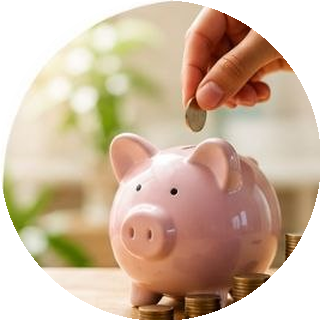
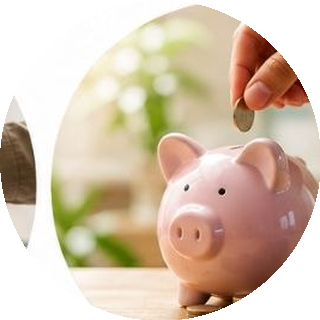
Add files via upload

diff --git a/index.html b/index.html
@@ -991,26 +991,29 @@ footer{background:var(--brun);color:rgba(253,250,247,.8);padding:55px 24px 26px}
   <div style="position:sticky;top:70px;z-index:400;background:rgba(253,250,247,.97);backdrop-filter:blur(10px);border-bottom:1px solid rgba(201,169,110,.25);overflow-x:auto;white-space:nowrap;padding:10px 16px;box-shadow:0 2px 10px rgba(44,24,16,.05)">
     <a href="#exh-bienvenue" style="display:inline-block;margin-right:18px;font-size:12px;font-weight:700;color:var(--brun-m);text-decoration:none">Bienvenue</a>
     <a href="#exh-qui" style="display:inline-block;margin-right:18px;font-size:12px;font-weight:700;color:var(--brun-m);text-decoration:none">Qui je suis</a>
+    <a href="#exh-offre" style="display:inline-block;margin-right:18px;font-size:12px;font-weight:700;color:var(--brun-m);text-decoration:none">Offre du mois</a>
     <a href="#exh-commander" style="display:inline-block;margin-right:18px;font-size:12px;font-weight:700;color:var(--brun-m);text-decoration:none">Comment commander</a>
     <a href="#exh-reserver" style="display:inline-block;margin-right:18px;font-size:12px;font-weight:700;color:var(--brun-m);text-decoration:none">Réserver</a>
     <a href="#exh-marque" style="display:inline-block;margin-right:18px;font-size:12px;font-weight:700;color:var(--brun-m);text-decoration:none">EXHALESSENCE</a>
     <a href="#exh-distributeur" style="display:inline-block;margin-right:18px;font-size:12px;font-weight:700;color:var(--brun-m);text-decoration:none">Devenir distributeur(trice)</a>
     <a href="#exh-avantages" style="display:inline-block;margin-right:18px;font-size:12px;font-weight:700;color:var(--brun-m);text-decoration:none">Avantages</a>
     <a href="#exh-rejoindre" style="display:inline-block;margin-right:18px;font-size:12px;font-weight:700;color:var(--brun-m);text-decoration:none">Nous rejoindre</a>
-    <a href="#" onclick="showContact();return false" style="display:inline-block;font-size:12px;font-weight:700;color:var(--terra);text-decoration:none">✉ Nous contacter</a>
+    <a href="#" onclick="showContact();return false" style="display:inline-block;margin-right:14px;font-size:12px;font-weight:700;color:var(--terra);text-decoration:none">✉ Nous contacter</a>
+    <a href="tel:+33622418463" style="display:inline-block;font-size:12px;font-weight:700;color:var(--terra);text-decoration:none">📞 06 22 41 84 63</a>
   </div>
 
   <!-- BIENVENUE -->
   <section id="exh-bienvenue" style="background:var(--beige);padding:56px 20px">
-    <div style="max-width:1080px;margin:0 auto;display:flex;gap:40px;align-items:center;flex-wrap:wrap-reverse;justify-content:center">
-      <div style="flex:1;min-width:280px;max-width:480px">
-        <div class="hero-badge" style="margin-bottom:14px">✦ Parfums, Beauté & Bien-être</div>
-        <h1 class="hero-t">Bienvenue chez <em>EXHALESSENCE</em></h1>
-        <p class="hero-sub">Conseillère indépendante — parfums de Grasse & gamme beauté</p>
-        <p class="hero-desc">Parfums, soins visage et corps, cheveux, barbe, et parfums d'intérieur — découvrez ma sélection de produits EXHALESSENCE, conçus en France. Vous trouverez ici l'essentiel pour commander, réserver votre moment beauté ou découvrir l'opportunité de rejoindre l'aventure.</p>
-      </div>
+    <div style="max-width:1080px;margin:0 auto;display:flex;gap:40px;align-items:center;flex-wrap:wrap;justify-content:center">
       <div style="flex:0 0 380px;max-width:380px;border-radius:16px;overflow:hidden;box-shadow:0 10px 34px rgba(44,24,16,.18)">
         <img src="exh-categorie.jpg" alt="Gamme de parfums et soins EXHALESSENCE" style="width:100%;display:block" onerror="this.style.display='none'"/>
+      </div>
+      <div style="flex:1;min-width:280px;max-width:480px">
+        <div class="hero-badge" style="margin-bottom:14px;background:rgba(201,169,110,.28);border:1px solid var(--dore);color:var(--brun)">✦ Parfums, Beauté & Bien-être</div>
+        <h1 class="hero-t">Zulay Marques <em>EXHALESSENCE</em></h1>
+        <p class="hero-sub">Conseillère indépendante<br>Parfums de Grasse & Beauté</p>
+        <p class="hero-desc">Soins du visage et du corps, capillaires, barbe, parfums d'intérieur et d'ambiance, compléments alimentaires pour hommes et femmes — découvrez tous les produits EXHALESSENCE, conçus en France, 100% français, non testés sur les animaux, à la naturalité élevée.</p>
+        <p class="hero-desc" style="margin-top:-14px">Vous trouverez ici l'essentiel pour découvrir comment commander, réserver votre moment beauté ou découvrir l'opportunité de rejoindre l'aventure.</p>
       </div>
     </div>
   </section>
@@ -1023,14 +1026,46 @@ footer{background:var(--brun);color:rgba(253,250,247,.8);padding:55px 24px 26px}
         <h2 class="st">Qui je suis ?</h2>
       </div>
       <div style="display:flex;gap:36px;align-items:center;flex-wrap:wrap;justify-content:center">
-        <div style="flex:0 0 260px;max-width:260px;border-radius:16px;overflow:hidden;box-shadow:0 8px 26px rgba(44,24,16,.15)">
-          <img src="exh-qui-je-suis.jpg" alt="Zulay Marques, conseillère EXHALESSENCE" style="width:100%;display:block" onerror="this.style.display='none'"/>
-        </div>
-        <div style="flex:1;min-width:260px;max-width:520px">
+        <div style="flex:1;min-width:260px;max-width:520px;order:1">
           <div style="display:inline-block;background:rgba(201,169,110,.15);border:1px solid var(--dore);color:var(--brun-m);padding:6px 16px;border-radius:20px;font-size:12px;font-weight:700;margin-bottom:16px">Conseillère EXHALESSENCE depuis 5 ans</div>
           <p style="color:var(--gris);line-height:1.9;font-size:15px">Séduite par la qualité des produits EXHALESSENCE, j'ai rejoint l'aventure en octobre 2020. D'abord en parallèle de mon emploi, j'y ai découvert une véritable passion. Depuis, cette activité a transformé ma vie personnelle et professionnelle.</p>
           <p style="color:var(--gris);line-height:1.9;font-size:15px;margin-top:14px">En 2023, j'ai choisi de m'y consacrer à temps plein, avec un épanouissement total. Aujourd'hui, je vis une liberté professionnelle précieuse, en harmonie avec ma vie de famille. Rejoindre EXHALESSENCE a été l'une des meilleures décisions de ma vie.</p>
         </div>
+        <div style="flex:0 0 260px;max-width:260px;border-radius:16px;overflow:hidden;box-shadow:0 8px 26px rgba(44,24,16,.15);order:2">
+          <img src="exh-qui-je-suis.jpg" alt="Zulay Marques, conseillère EXHALESSENCE" style="width:100%;display:block" onerror="this.style.display='none'"/>
+        </div>
+      </div>
+    </div>
+  </section>
+
+  <!-- OFFRE DU MOIS -->
+  <section id="exh-offre" style="background:white;padding:50px 20px">
+    <div class="si" style="max-width:920px">
+      <div class="sh">
+        <div class="ey">✦ En ce moment</div>
+        <h2 class="st">Offre du mois</h2>
+        <p class="sdesc">Deux offres valables du 1<sup>er</sup> au 30 septembre 2026.</p>
+      </div>
+      <div style="display:flex;gap:22px;justify-content:center;flex-wrap:wrap;max-width:840px;margin:0 auto">
+
+        <div style="background:#FDF6F0;border-radius:var(--r);overflow:hidden;box-shadow:var(--sh);max-width:320px;text-align:center">
+          <img src="exh-offre-parfum-septembre.jpg" alt="Parfum du mois Cœur de Miel" style="width:100%;display:block" onerror="this.style.display='none'"/>
+          <div style="padding:18px">
+            <div class="vt" style="margin-bottom:6px">Parfum du mois — Cœur de Miel</div>
+            <p style="color:var(--gris);font-size:13px;line-height:1.7;margin-bottom:10px">Réf. 172 — Famille Chyprée Florale. Une gourmandise florale entre miel, gardénia et fleur d'oranger, sur un fond de caramel et de patchouli.</p>
+            <p style="color:var(--brun);font-size:13px;font-weight:700">Parfum 75ml : 25€ <span style="color:var(--gris);font-weight:400;text-decoration:line-through">32€</span><br>Recharge 125ml : 25€ <span style="color:var(--gris);font-weight:400;text-decoration:line-through">30€</span></p>
+          </div>
+        </div>
+
+        <div style="background:#FDF6F0;border-radius:var(--r);overflow:hidden;box-shadow:var(--sh);max-width:320px;text-align:center">
+          <img src="exh-offre-nutri-septembre.jpg" alt="Pack Nutri+ Détox Minceur Probiotique" style="width:100%;display:block" onerror="this.style.display='none'"/>
+          <div style="padding:18px">
+            <div class="vt" style="margin-bottom:6px">Pack Nutri+ — Détox, Minceur & Probiotique</div>
+            <p style="color:var(--gris);font-size:13px;line-height:1.7;margin-bottom:10px">Une cure de 55 jours : 1 flacon Détox, 3 flacons Draineurs, 3 flacons Brûleurs de graisse et 1 flacon Probiotique.</p>
+            <p style="color:var(--brun);font-size:13px;font-weight:700">199€ <span style="color:var(--gris);font-weight:400;text-decoration:line-through">279€</span> — soit 80€ de réduction</p>
+          </div>
+        </div>
+
       </div>
     </div>
   </section>
@@ -1054,7 +1089,7 @@ footer{background:var(--brun);color:rgba(253,250,247,.8);padding:55px 24px 26px}
             <div style="border-radius:12px;overflow:hidden;box-shadow:0 6px 20px rgba(44,24,16,.14);margin-bottom:10px">
               <img src="exh-liste-parfums-couverture.jpg" alt="Liste des parfums Exhalessence" style="width:100%;display:block" onerror="this.style.display='none'"/>
             </div>
-            <a href="catalogue-parfums-exhalessence.html" target="_blank" rel="noopener" class="btn-s" style="text-decoration:none;font-size:11px;padding:9px 14px;width:100%;justify-content:center">🌸 Liste des parfums</a>
+            <a href="catalogue-parfums-exhalessence.html" target="_blank" rel="noopener" class="btn-p" style="text-decoration:none;font-size:11px;padding:9px 14px;width:100%;justify-content:center">🌸 Liste des parfums</a>
           </div>
         </div>
         <div style="flex:1;min-width:260px;max-width:420px">
@@ -1124,8 +1159,10 @@ footer{background:var(--brun);color:rgba(253,250,247,.8);padding:55px 24px 26px}
         <button onclick="toggleExhForm()" class="btn-p" style="font-size:15px;padding:14px 34px">Réserver</button>
       </div>
 
-      <!-- FORMULAIRE DE RÉSERVATION (masqué par défaut) -->
-      <div id="exh-form-wrap" style="display:none;max-width:560px;margin:30px auto 0;background:white;border-radius:var(--r);padding:30px 26px;box-shadow:var(--sh-lg)">
+      <!-- FORMULAIRE DE RÉSERVATION (fenêtre modale) -->
+      <div id="exh-form-overlay" style="display:none;position:fixed;inset:0;background:rgba(44,24,16,.6);backdrop-filter:blur(4px);z-index:5000;align-items:center;justify-content:center;padding:20px" onclick="if(event.target===this)toggleExhForm()">
+      <div id="exh-form-wrap" style="max-width:560px;width:100%;max-height:88vh;overflow-y:auto;background:white;border-radius:var(--r);padding:30px 26px;box-shadow:var(--sh-lg);position:relative">
+        <button onclick="toggleExhForm()" aria-label="Fermer" style="position:absolute;top:14px;right:14px;width:32px;height:32px;border-radius:50%;border:none;background:rgba(201,169,110,.15);color:var(--brun);font-size:16px;cursor:pointer;display:flex;align-items:center;justify-content:center">✕</button>
         <h3 style="font-family:'Playfair Display',serif;font-size:19px;color:var(--brun);margin-bottom:6px;text-align:center">Réserver votre moment</h3>
         <p style="color:var(--gris);font-size:12px;text-align:center;margin-bottom:20px">La date choisie est indicative — je vous recontacte pour la confirmer.</p>
 
@@ -1153,6 +1190,7 @@ footer{background:var(--brun);color:rgba(253,250,247,.8);padding:55px 24px 26px}
           <p id="exh-form-msg" style="font-size:12px;text-align:center;display:none;margin-top:2px"></p>
         </div>
       </div>
+      </div>
     </div>
   </section>
 
@@ -1164,8 +1202,11 @@ footer{background:var(--brun);color:rgba(253,250,247,.8);padding:55px 24px 26px}
         <h2 class="st">EXHALESSENCE</h2>
       </div>
       <div style="display:flex;gap:36px;align-items:center;flex-wrap:wrap;justify-content:center">
-        <div style="flex:0 0 300px;max-width:300px;border-radius:16px;overflow:hidden;box-shadow:0 8px 26px rgba(44,24,16,.15)">
-          <img src="exh-siege.jpg" alt="Siège de la société EXHALESSENCE" style="width:100%;display:block" onerror="this.style.display='none'"/>
+        <div style="flex:0 0 400px;max-width:400px">
+          <div style="border-radius:16px;overflow:hidden;box-shadow:0 8px 26px rgba(44,24,16,.15)">
+            <img src="exh-siege.jpg" alt="Siège de la société EXHALESSENCE" style="width:100%;display:block" onerror="this.style.display='none'"/>
+          </div>
+          <p style="text-align:center;margin-top:10px;color:var(--brun-m);font-size:13px;font-weight:700">Siège EXHALESSENCE<br><span style="font-weight:400;color:var(--gris)">Meung-sur-Loire (45)</span></p>
         </div>
         <div style="flex:1;min-width:260px;max-width:480px;color:var(--gris);line-height:1.9;font-size:14px">
           <p style="margin-bottom:12px">Joël SAUVAGEOT, Président entouré de ses collaborateurs, a créé la société EXHALESSENCE en juin 2016. Exhalessence, une société Française, située à Meung-sur-Loire (45).</p>
@@ -1187,7 +1228,7 @@ footer{background:var(--brun);color:rgba(253,250,247,.8);padding:55px 24px 26px}
       <div class="sh">
         <div class="ey">✦ L'opportunité</div>
         <h2 class="st">Devenir distributeur(trice)</h2>
-        <p class="sdesc">Vous aimez les produits EXHALESSENCE et vous souhaitez, vous aussi, vivre cette belle aventure et développer votre propre activité à votre rythme ? Découvrez tout ce qu'il faut savoir en vidéo.</p>
+        <p class="sdesc">Vous aimez les produits EXHALESSENCE et souhaitez découvrir aussi cette belle aventure et développer votre propre activité à votre rythme ?<br>Découvrez tout ce qu'il faut savoir en vidéo.</p>
       </div>
       <div style="position:relative;width:100%;padding-top:56.25%;border-radius:var(--r);overflow:hidden;box-shadow:var(--sh-lg);background:#000">
         <iframe
@@ -7385,11 +7426,11 @@ async function inscrireNewsletter(){
 }
 
 function toggleExhForm(){
-  const el = document.getElementById('exh-form-wrap');
-  if(!el) return;
-  const show = el.style.display === 'none' || !el.style.display;
-  el.style.display = show ? 'block' : 'none';
-  if(show) el.scrollIntoView({behavior:'smooth', block:'start'});
+  const overlay = document.getElementById('exh-form-overlay');
+  if(!overlay) return;
+  const show = overlay.style.display === 'none' || !overlay.style.display;
+  overlay.style.display = show ? 'flex' : 'none';
+  document.body.style.overflow = show ? 'hidden' : '';
 }
 
 async function reserverExhalessence(){

diff --git a/catalogue-parfums-exhalessence.html b/catalogue-parfums-exhalessence.html
@@ -16,10 +16,10 @@
     height:100%;
     background:radial-gradient(ellipse at center, #2b2118 0%, #14100c 100%);
     font-family:'Georgia', 'Times New Roman', serif;
-    overflow:hidden;
+    overflow:auto;
   }
   .catalogue-wrap{
-    height:100%;
+    min-height:100%;
     width:100%;
     display:flex;
     flex-direction:column;
@@ -29,10 +29,8 @@
   }
   .book-stage{
     position:relative;
-    width:100%;
-    max-width:1100px;
-    aspect-ratio:1492/1054;
     perspective:2800px;
+    margin:0 auto;
   }
   .page{
     position:absolute;
@@ -70,9 +68,10 @@
   .page:not(.stacked){ z-index:5; }
 
   .book-shadow{
-    position:absolute;
-    bottom:-18px;left:5%;right:5%;
+    width:100%;
+    max-width:1100px;
     height:30px;
+    margin-top:-10px;
     background:radial-gradient(ellipse, rgba(0,0,0,0.55) 0%, transparent 75%);
     filter:blur(4px);
   }
@@ -81,7 +80,7 @@
     display:flex;
     align-items:center;
     gap:28px;
-    margin-top:26px;
+    margin-top:22px;
   }
   .nav-btn{
     background:transparent;
@@ -116,21 +115,33 @@
     text-align:center;
   }
 
-  .edge-click{
+  .edge-arrow{
     position:absolute;
-    top:0;
-    width:15%;
-    height:100%;
-    z-index:10;
+    top:50%;
+    transform:translateY(-50%);
+    z-index:20;
+    width:44px;height:44px;
+    border-radius:50%;
+    background:rgba(20,16,12,0.55);
+    border:1px solid var(--gold);
+    color:var(--gold-light);
+    display:flex;align-items:center;justify-content:center;
+    font-size:18px;
     cursor:pointer;
+    transition:all 0.2s ease;
+    user-select:none;
   }
-  .edge-left{ left:0; }
-  .edge-right{ right:0; }
+  .edge-arrow:hover{ background:var(--gold); color:var(--dark); }
+  .edge-arrow.hidden{ display:none; }
+  .edge-arrow-left{ left:-22px; }
+  .edge-arrow-right{ right:-22px; }
 
   @media (max-width:640px){
-    .book-stage{ max-width:94vw; }
     .controls{ gap:18px; }
     .nav-btn{ width:40px;height:40px;font-size:15px; }
+    .edge-arrow{ width:36px;height:36px;font-size:15px; }
+    .edge-arrow-left{ left:-8px; }
+    .edge-arrow-right{ right:-8px; }
   }
 </style>
 </head>
@@ -138,8 +149,8 @@
 
 <div class="catalogue-wrap">
   <div class="book-stage" id="bookStage">
-    <div class="edge-click edge-left" id="edgeLeft"></div>
-    <div class="edge-click edge-right" id="edgeRight"></div>
+    <div class="edge-arrow edge-arrow-left" id="edgeLeft">&#10094;</div>
+    <div class="edge-arrow edge-arrow-right" id="edgeRight">&#10095;</div>
     <!-- pages injected by JS -->
   </div>
   <div class="book-shadow"></div>
@@ -149,7 +160,7 @@
     <div class="page-indicator" id="pageIndicator">1 / 4</div>
     <button class="nav-btn" id="nextBtn" aria-label="Page suivante">&#10095;</button>
   </div>
-  <div class="hint">Cliquez sur les bords de la page, ou utilisez les flèches, pour tourner les pages</div>
+  <div class="hint">Cliquez sur les flèches, ou utilisez les touches du clavier, pour tourner les pages</div>
 </div>
 
 <script>
@@ -160,10 +171,10 @@
     "page3-homme.jpg",
     "page4-mixte.jpg"
   ];
+  var RATIO = 1492/1054;
   var stage = document.getElementById('bookStage');
   var current = 0;
 
-  // Build page elements (each has a front face image + a back "reverse" face)
   var pageEls = pages.map(function(src, i){
     var el = document.createElement('div');
     el.className = 'page';
@@ -175,6 +186,19 @@
     stage.appendChild(el);
     return el;
   });
+
+  function sizeStage(){
+    var wrapPadding = 40;
+    var controlsH = 46 + 22 + 14 + 20;
+    var shadowH = 30;
+    var availH = window.innerHeight - controlsH - shadowH - wrapPadding;
+    var availW = window.innerWidth - wrapPadding - 60;
+    var maxW = Math.min(1100, availW, availH * RATIO);
+    var w = Math.max(260, maxW);
+    var h = w / RATIO;
+    stage.style.width = w + 'px';
+    stage.style.height = h + 'px';
+  }
 
   function render(){
     pageEls.forEach(function(el, i){
@@ -189,6 +213,11 @@
     document.getElementById('pageIndicator').textContent = (current+1) + ' / ' + pages.length;
     document.getElementById('prevBtn').disabled = current === 0;
     document.getElementById('nextBtn').disabled = current === pages.length - 1;
+
+    var edgeLeft = document.getElementById('edgeLeft');
+    var edgeRight = document.getElementById('edgeRight');
+    edgeLeft.classList.toggle('hidden', current === 0);
+    edgeRight.classList.toggle('hidden', current === pages.length - 1);
   }
 
   function next(){
@@ -208,7 +237,6 @@
     if(e.key === 'ArrowLeft') prev();
   });
 
-  // basic touch swipe
   var touchStartX = null;
   stage.addEventListener('touchstart', function(e){ touchStartX = e.touches[0].clientX; });
   stage.addEventListener('touchend', function(e){
@@ -219,6 +247,8 @@
     touchStartX = null;
   });
 
+  window.addEventListener('resize', sizeStage);
+  sizeStage();
   render();
 })();
 </script>
